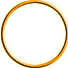
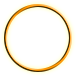
Corrected the display of the skill indicator.

diff --git a/core/src/com/dokkaebistudio/tacticaljourney/systems/PlayerAttackSystem.java b/core/src/com/dokkaebistudio/tacticaljourney/systems/PlayerAttackSystem.java
@@ -96,6 +96,9 @@ public class PlayerAttackSystem extends IteratingSystem implements RoomSystem {
 		    		break;
 		    		default:
 	    		}
+	    		indicatorTransfo.pos.x = indicatorTransfo.pos.x - 5;
+	    		indicatorTransfo.pos.y = indicatorTransfo.pos.y - 5;
+
 	
 	    		room.state = RoomState.PLAYER_TARGETING;
     		}
